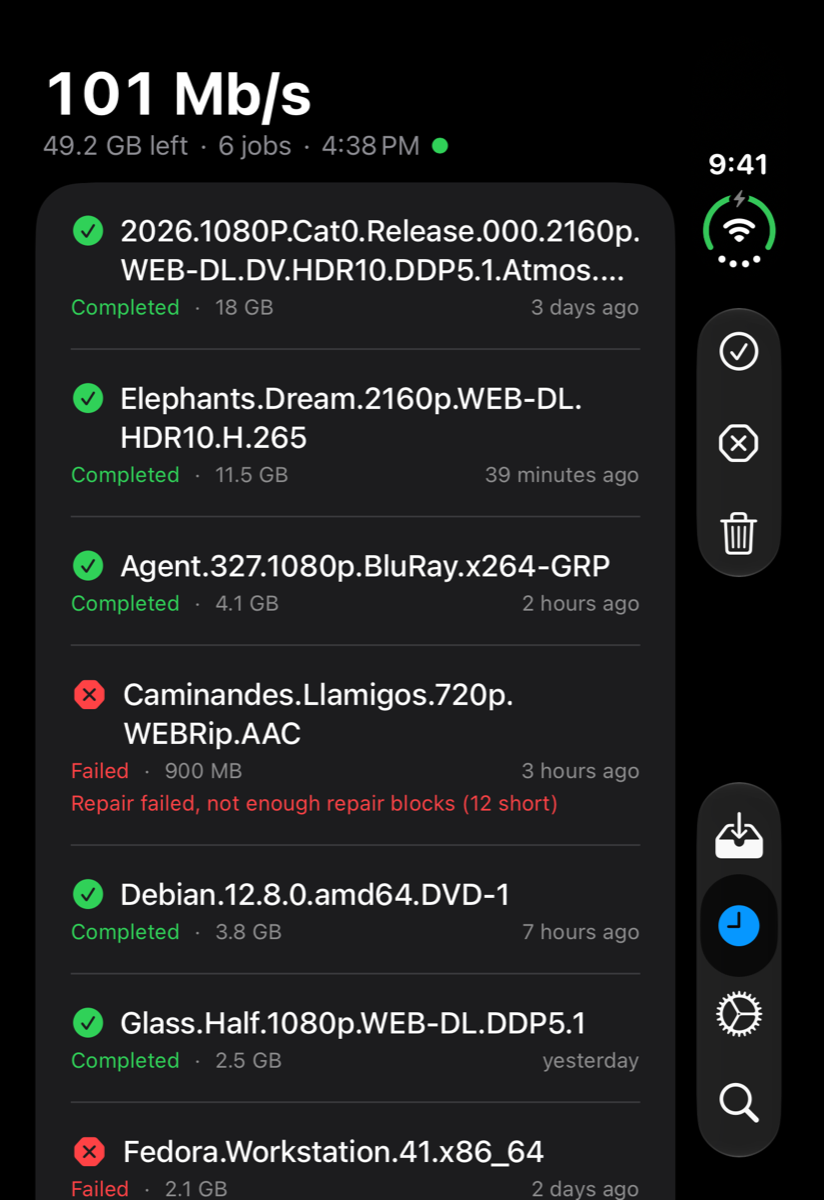
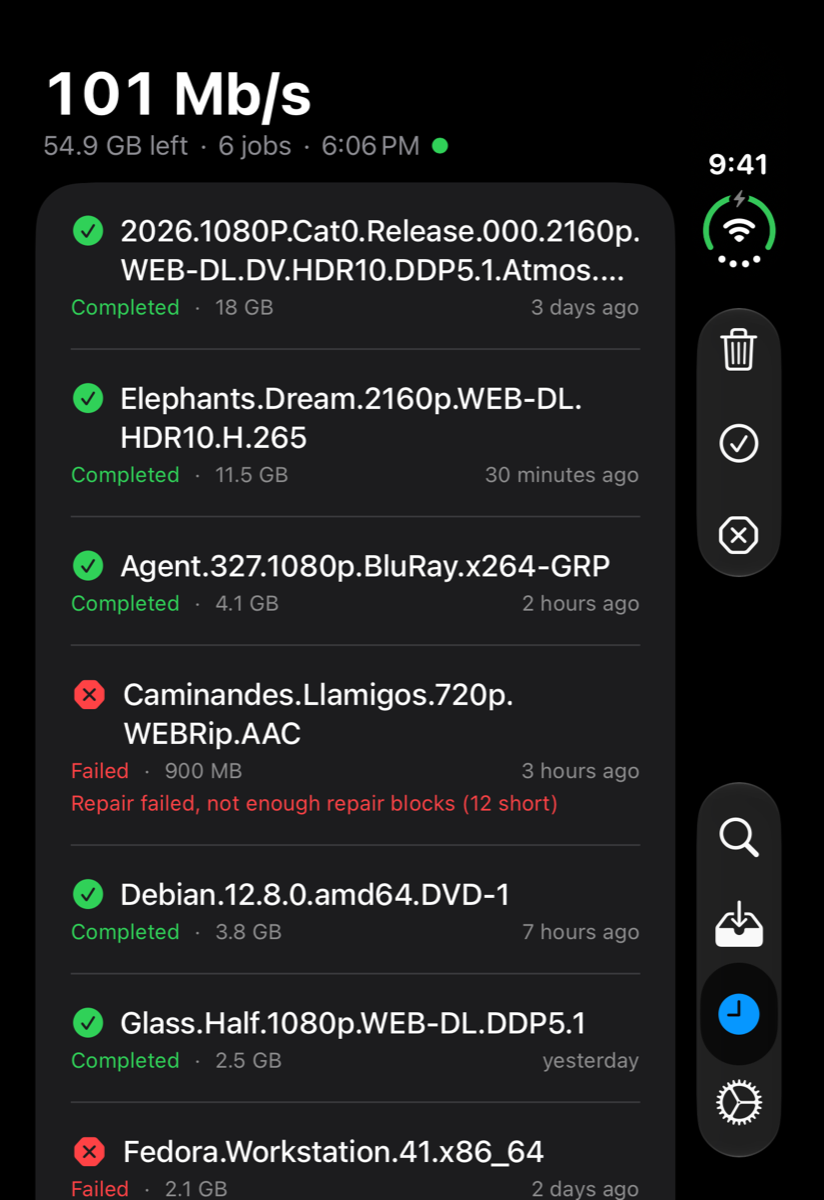
Retake screenshots, and add folded landscape

diff --git a/README.md b/README.md
@@ -14,6 +14,10 @@ the queue or history beside search.
   <img src="docs/screenshots/unfolded-portrait.png" alt="Unfolded in portrait: the queue beside search" width="230">
 </p>
 
+<p align="center">
+  <img src="docs/screenshots/folded-landscape.png" alt="Folded in landscape: the queue on the cover display" width="480">
+</p>
+
 ## Features
 
 **Queue and history**
